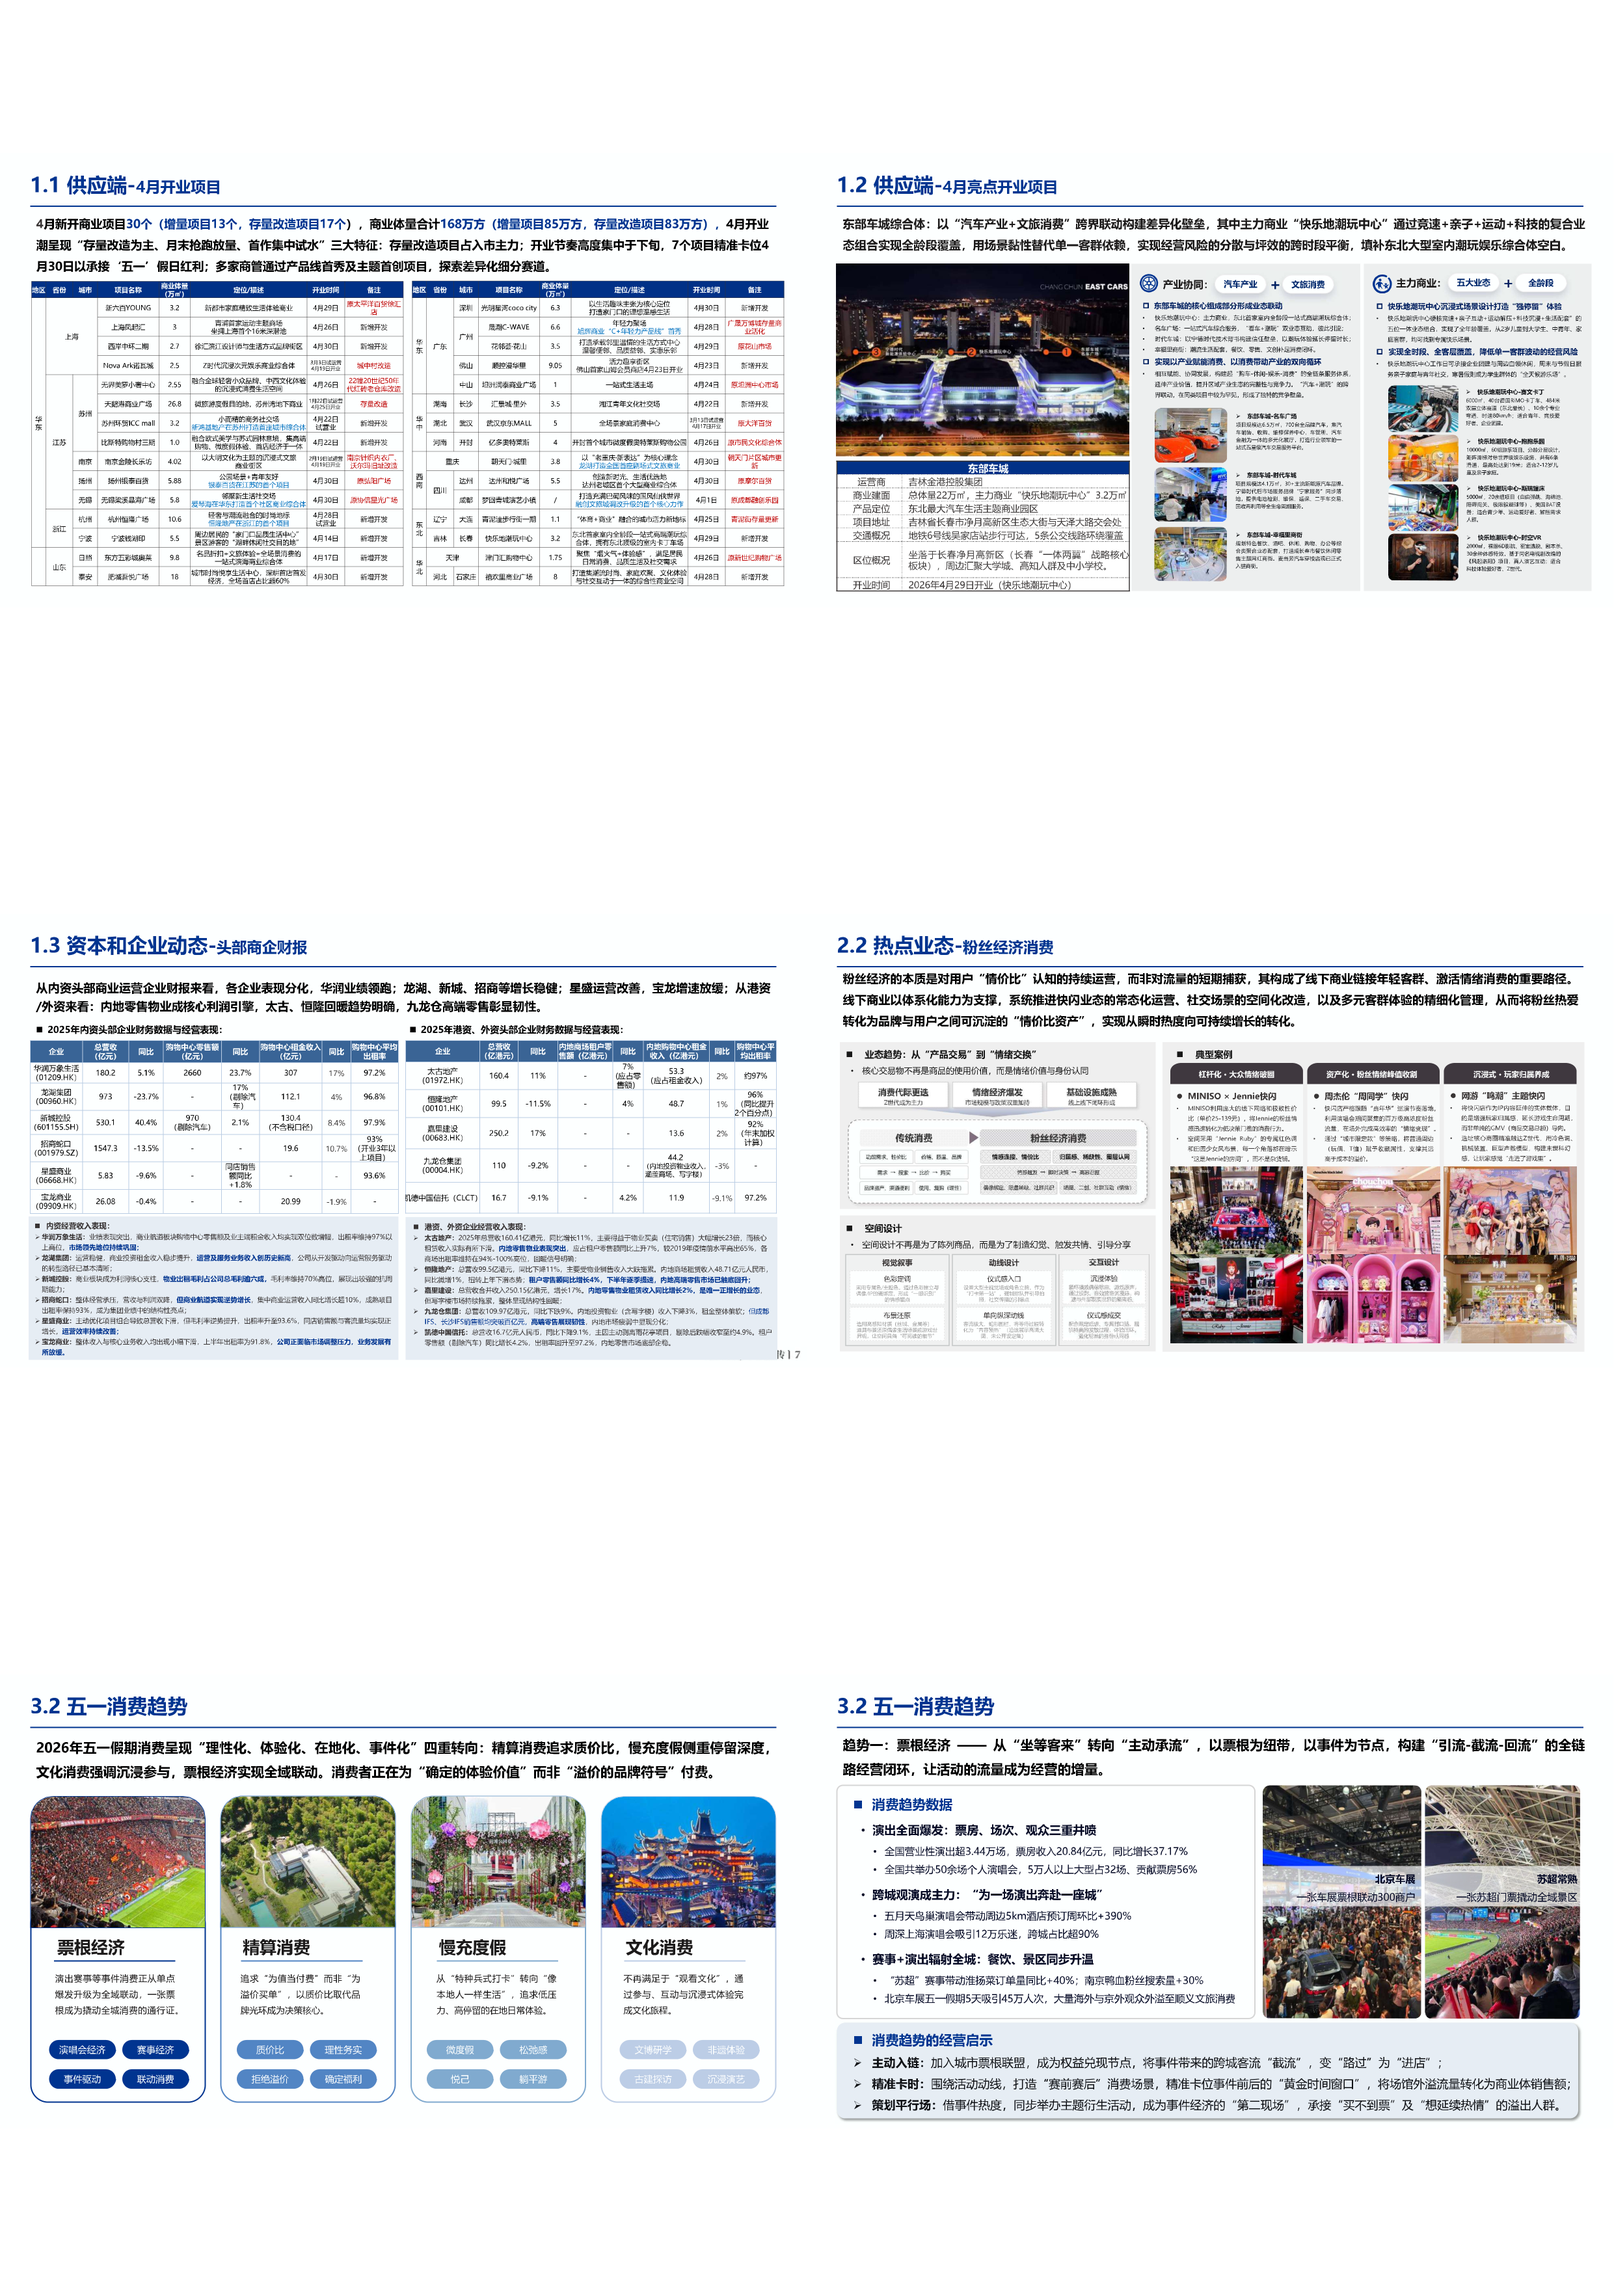
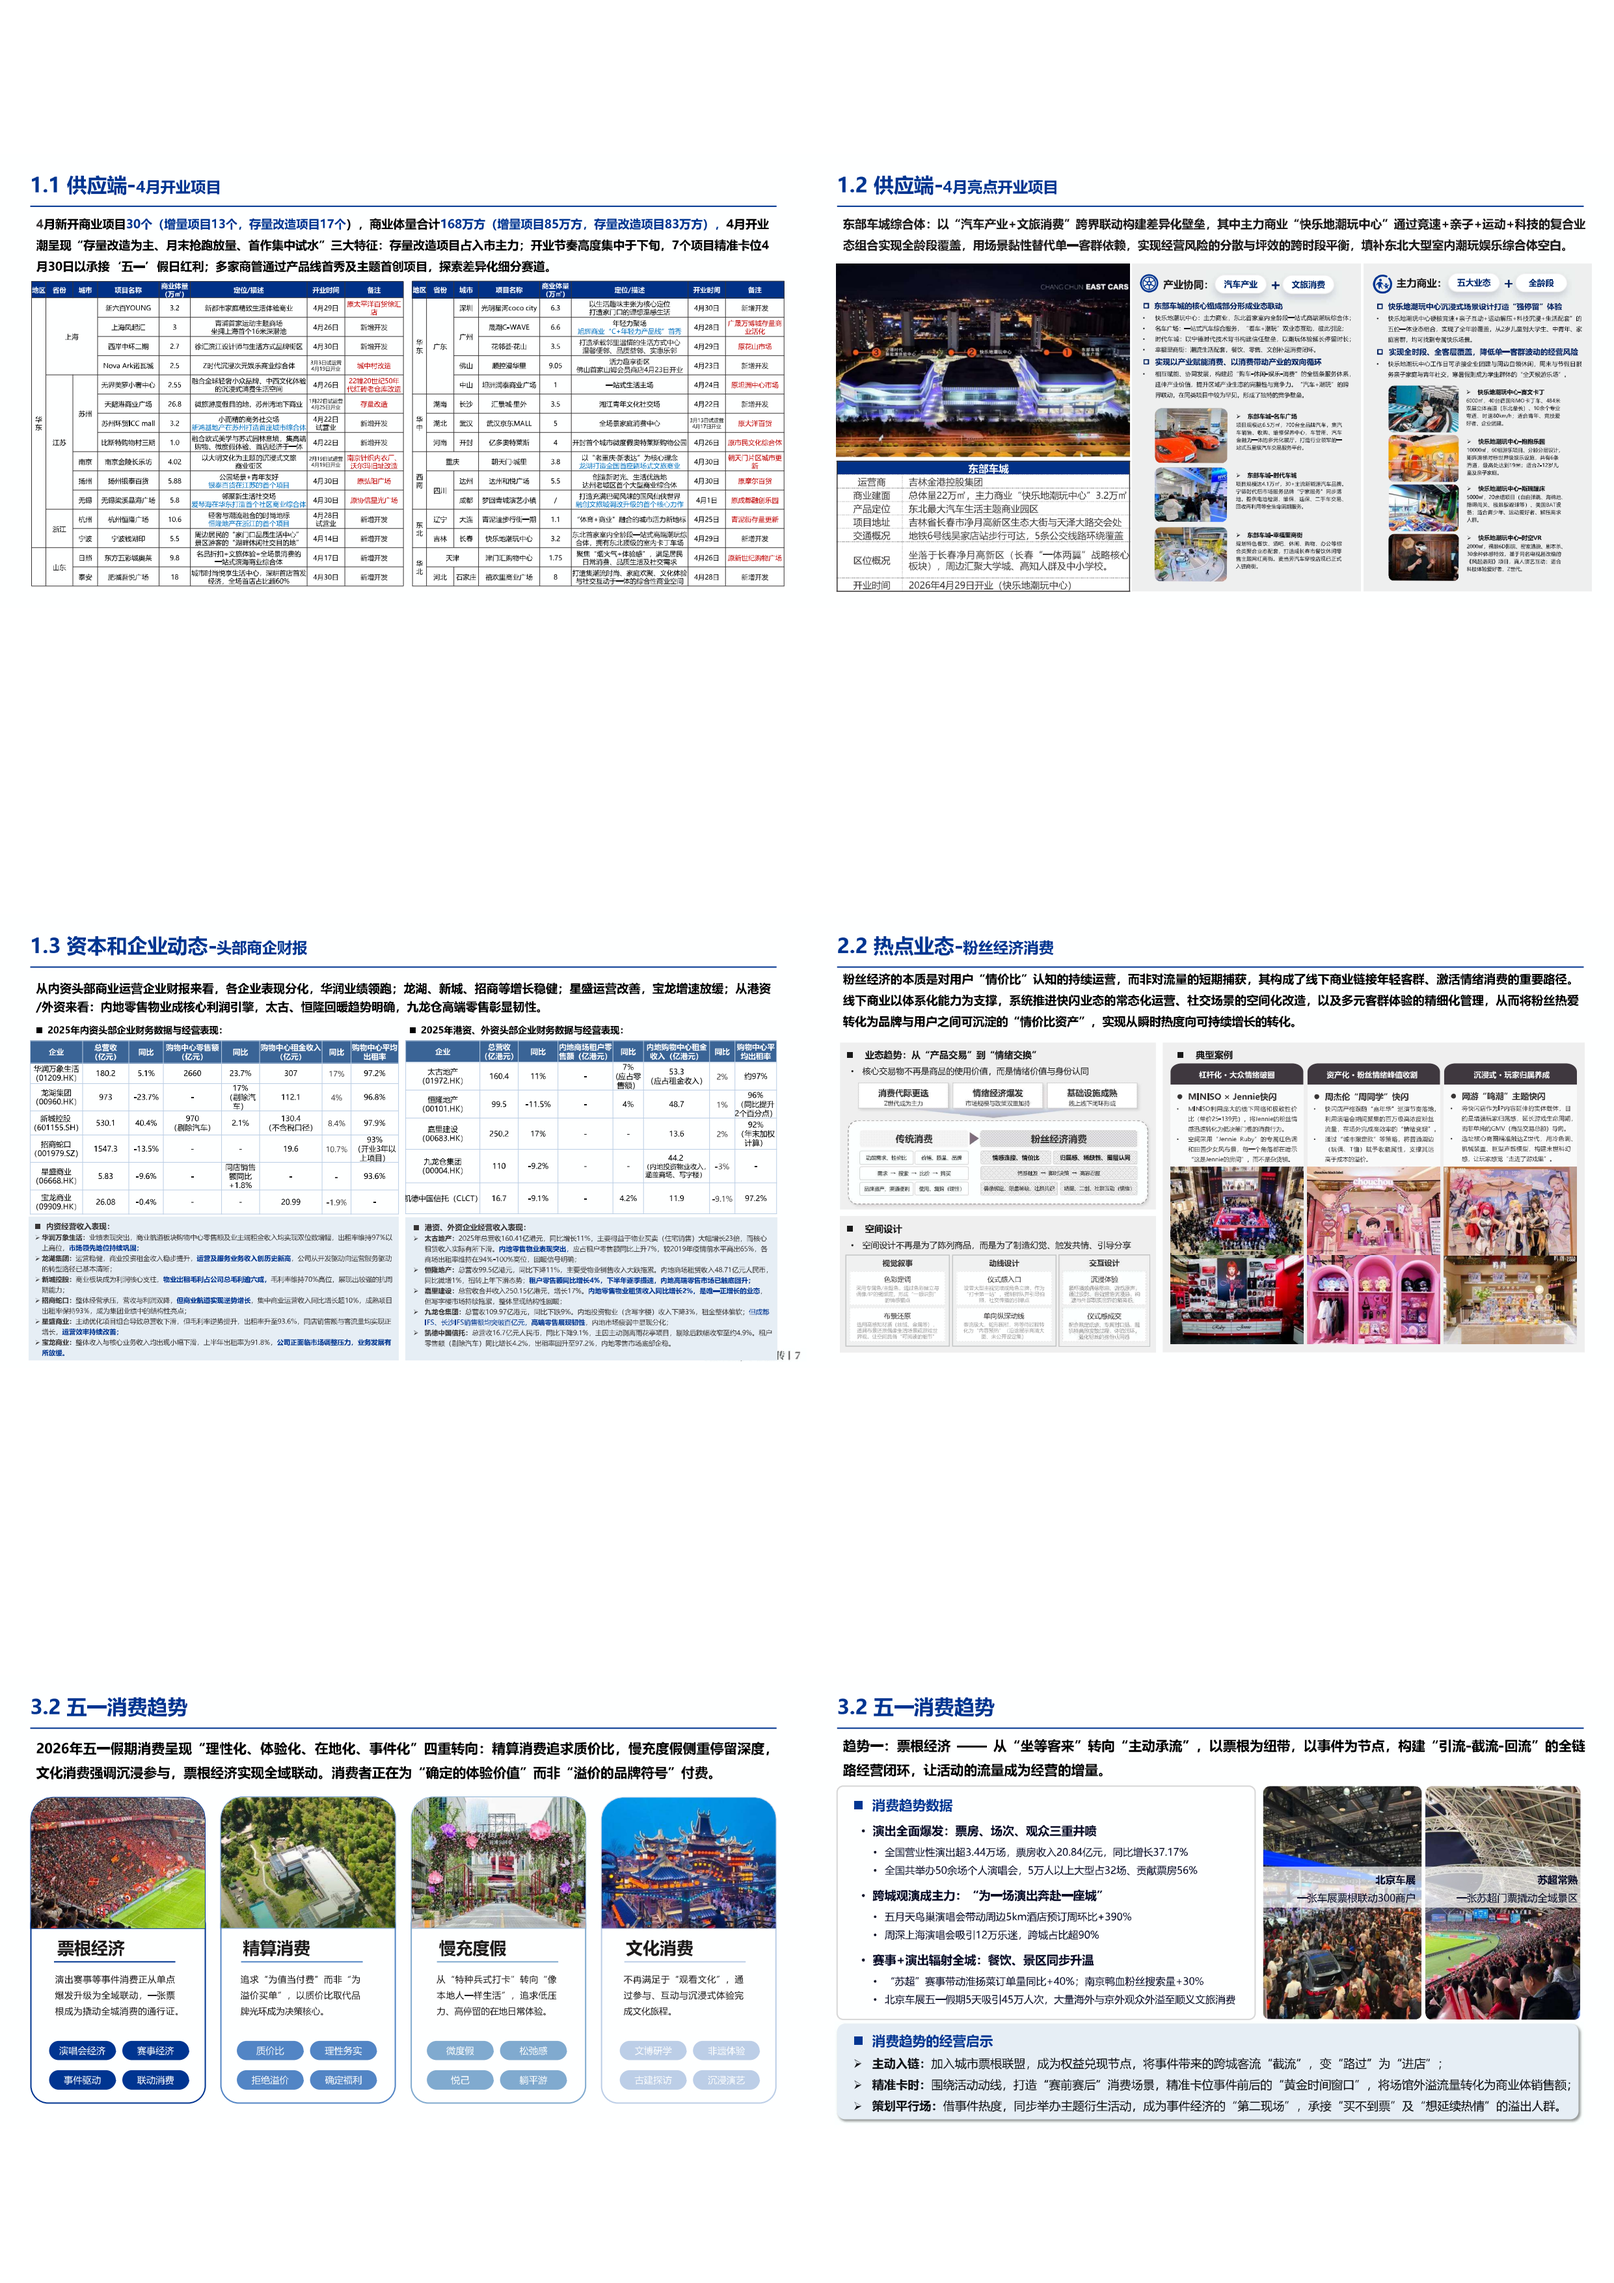
改回PNG：用PDFium引擎重新渲染宠物经济/定位策划/商业市场研究(dpi300, 无锐化)，宠物经济仍放第一

diff --git a/index.html b/index.html
@@ -454,14 +454,18 @@
             <div class="work__sub">竞品分析、客群分析与产品定位策划，制定产品市场运营方案</div>
           </div>
 
-          <figure class="work__hero work__hero--pdf">
-            <iframe src="assets/bgy/pet_economy.pdf" title="宠物经济研究与产品设计" loading="lazy"></iframe>
+          <figure class="work__hero" data-modal="assets/bgy/pet_economy_p1.png" data-alt="宠物经济研究与产品设计" data-group="bgy-pos">
+            <img src="assets/bgy/pet_economy_p1.png" alt="宠物经济研究与产品设计" loading="lazy" />
+            <span class="work__zoom">
+              <svg width="14" height="14" viewBox="0 0 24 24" fill="none" stroke="currentColor" stroke-width="1.8"><circle cx="11" cy="11" r="7"/><path d="m21 21-4.3-4.3M8 11h6M11 8v6"/></svg>
+              点击查看
+            </span>
           </figure>
 
           <div class="page-strip">
             <div class="page-strip__label">宠物经济研究 + 商业市场研究 + 产品定位策划 · 3 页</div>
             <div class="page-strip__grid">
-              <div class="page-strip__item page-strip__item--pdf"><iframe src="assets/bgy/pet_economy.pdf" title="宠物经济研究与产品设计" loading="lazy"></iframe><span class="page-strip__num">1</span></div>
+              <div class="page-strip__item" data-modal="assets/bgy/pet_economy_p1.png" data-alt="宠物经济研究与产品设计" data-group="bgy-pos"><img src="assets/bgy/pet_economy_p1.png" alt="宠物经济 p1" loading="lazy" /><span class="page-strip__num">1</span></div>
               <div class="page-strip__item" data-modal="assets/bgy/bgy_market_p1.png" data-alt="商业市场研究" data-group="bgy-pos"><img src="assets/bgy/bgy_market_p1.png" alt="商业市场研究 p1" loading="lazy" /><span class="page-strip__num">2</span></div>
               <div class="page-strip__item" data-modal="assets/bgy/bgy_positioning_p1.png" data-alt="产品定位策划" data-group="bgy-pos"><img src="assets/bgy/bgy_positioning_p1.png" alt="定位策划 p1" loading="lazy" /><span class="page-strip__num">3</span></div>
             </div>

diff --git a/css/style.css b/css/style.css
@@ -1163,19 +1163,6 @@ button {
   object-position: top center;
 }
 
-/* 直接引用源 PDF 原文件（不做二次渲染），由浏览器原生渲染，避免转图造成的文字失真 */
-.work__hero--pdf {
-  cursor: default;
-}
-
-.work__hero--pdf iframe,
-.page-strip__item--pdf iframe {
-  width: 100%;
-  height: 100%;
-  border: 0;
-  display: block;
-  background: var(--color-bg-soft);
-}
 
 .page-strip__num {
   position: absolute;
